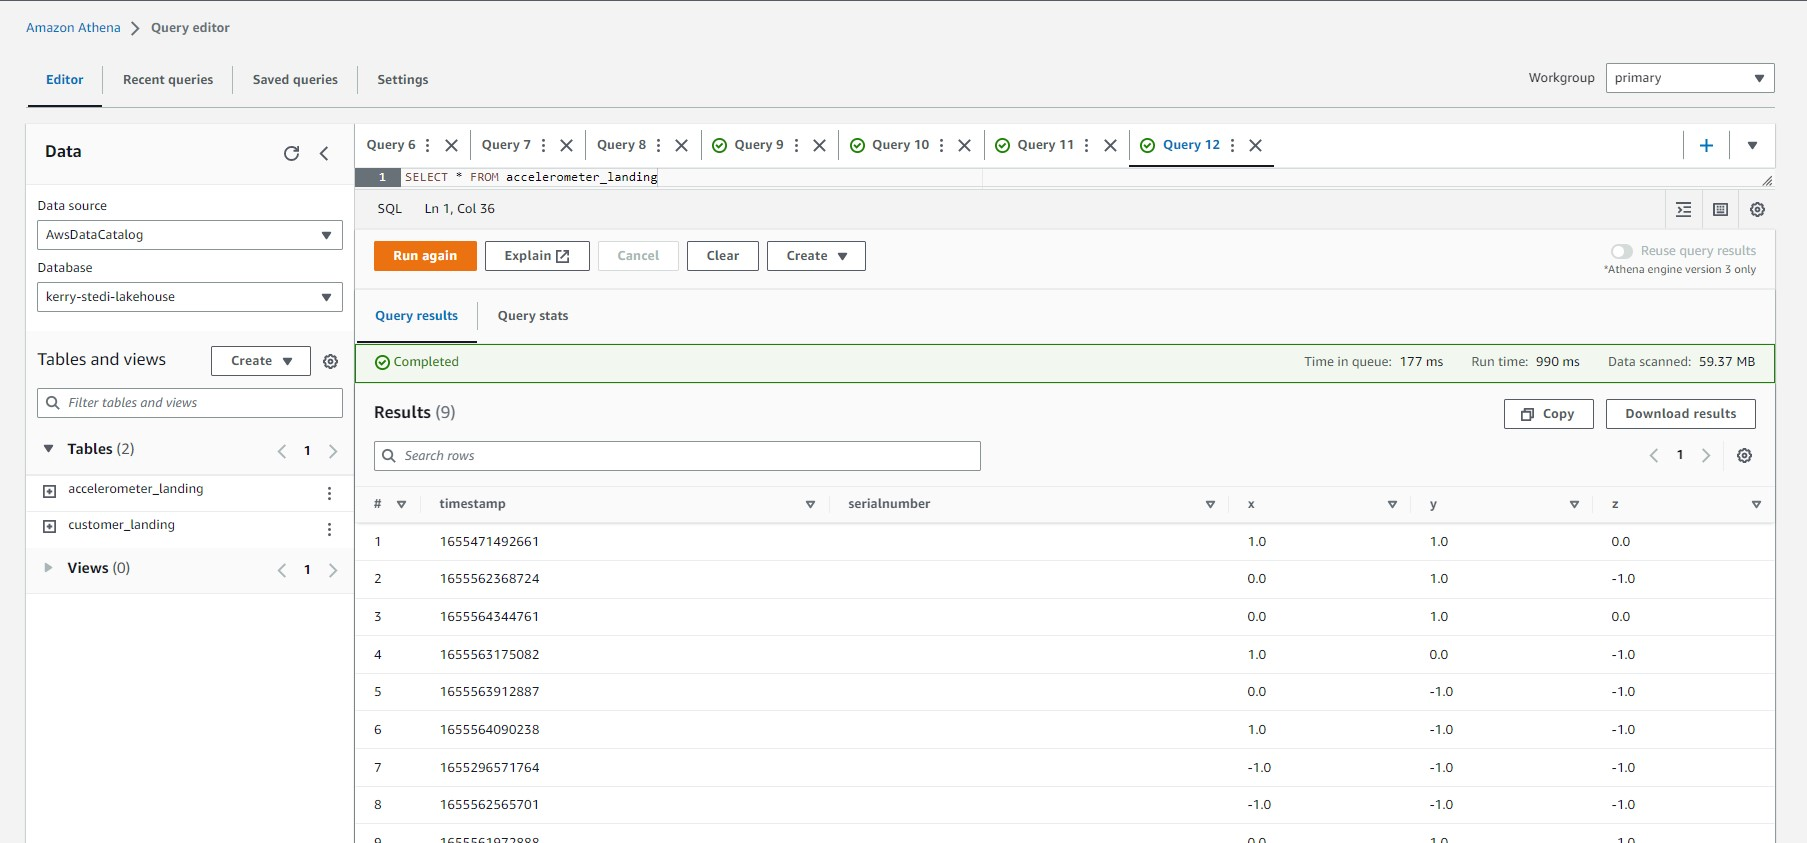
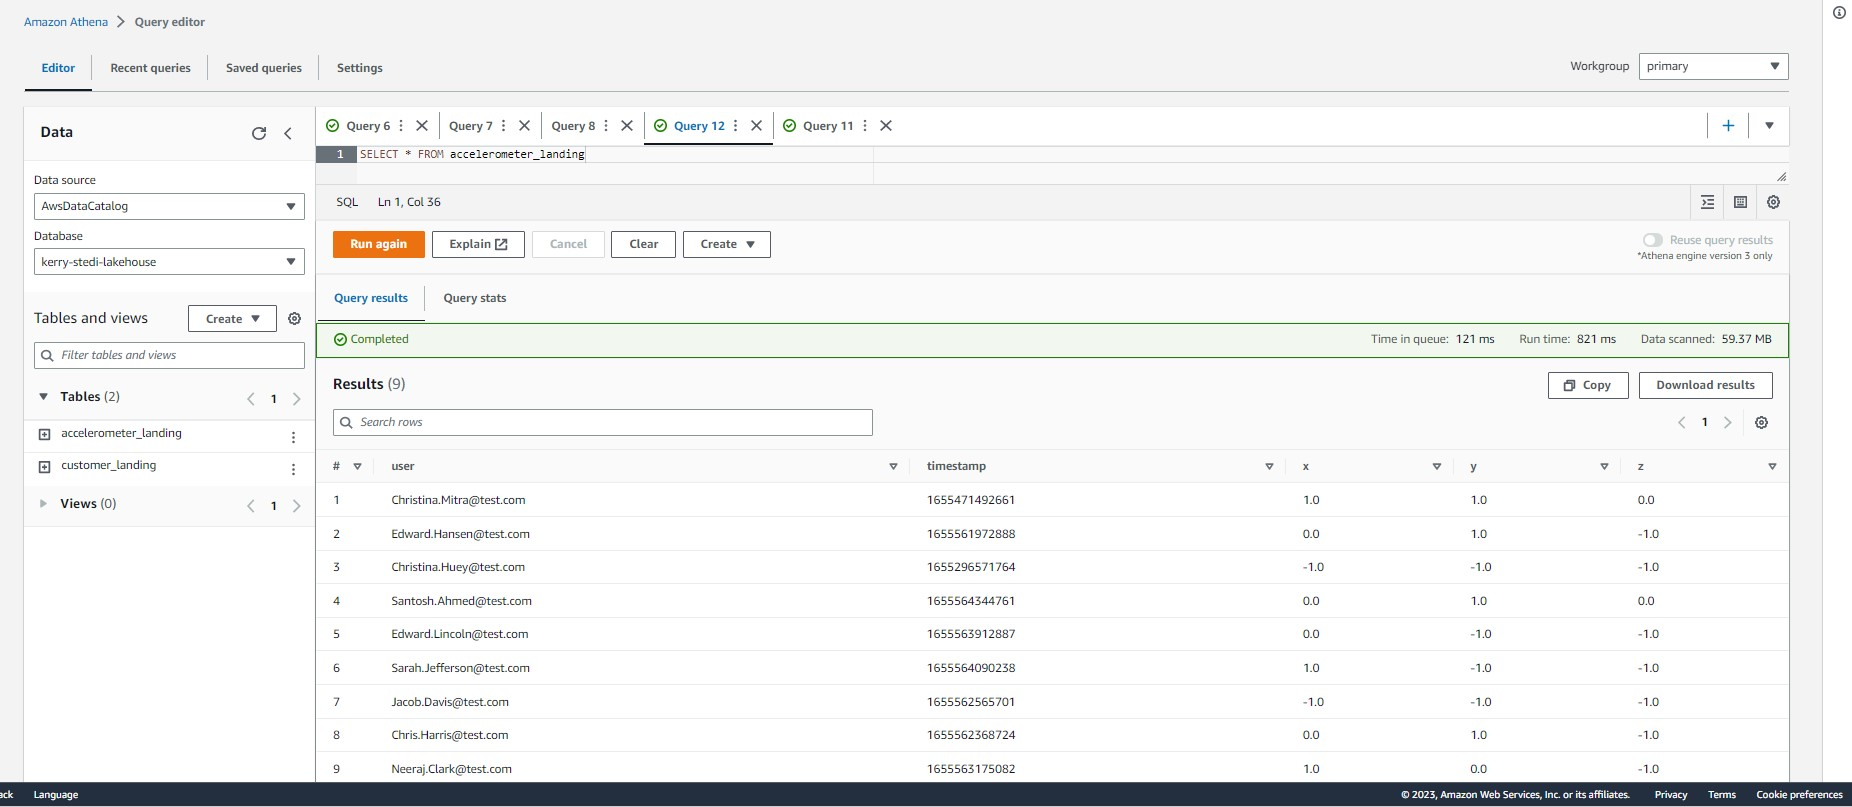
add trusted codes

diff --git a/stedi_accelerometer_landing_to_trusted.py b/stedi_accelerometer_landing_to_trusted.py
@@ -1,0 +1,87 @@
+import sys
+from awsglue.transforms import *
+from awsglue.utils import getResolvedOptions
+from pyspark.context import SparkContext
+from awsglue.context import GlueContext
+from awsglue.job import Job
+from awsglue.dynamicframe import DynamicFrame
+from pyspark.sql import functions as SqlFuncs
+
+args = getResolvedOptions(sys.argv, ["JOB_NAME"])
+sc = SparkContext()
+glueContext = GlueContext(sc)
+spark = glueContext.spark_session
+job = Job(glueContext)
+job.init(args["JOB_NAME"], args)
+
+# Script generated for node Accelerometer Landing
+AccelerometerLanding_node1 = glueContext.create_dynamic_frame.from_options(
+    format_options={"multiline": False},
+    connection_type="s3",
+    format="json",
+    connection_options={
+        "paths": ["s3://kerry-pj3-stedi-lakehouse/accelerometer/landing/"],
+        "recurse": True,
+    },
+    transformation_ctx="AccelerometerLanding_node1",
+)
+
+# Script generated for node Customer Trusted
+CustomerTrusted_node1677127231967 = glueContext.create_dynamic_frame.from_options(
+    format_options={"multiline": False},
+    connection_type="s3",
+    format="json",
+    connection_options={
+        "paths": ["s3://kerry-pj3-stedi-lakehouse/customer/trusted/"],
+        "recurse": True,
+    },
+    transformation_ctx="CustomerTrusted_node1677127231967",
+)
+
+# Script generated for node Drop Duplicates
+DropDuplicates_node1677128651243 = DynamicFrame.fromDF(
+    CustomerTrusted_node1677127231967.toDF().dropDuplicates(["email"]),
+    glueContext,
+    "DropDuplicates_node1677128651243",
+)
+
+# Script generated for node Privacy Filter
+PrivacyFilter_node2 = Join.apply(
+    frame1=AccelerometerLanding_node1,
+    frame2=DropDuplicates_node1677128651243,
+    keys1=["user"],
+    keys2=["email"],
+    transformation_ctx="PrivacyFilter_node2",
+)
+
+# Script generated for node Drop Fields
+DropFields_node1677127383456 = DropFields.apply(
+    frame=PrivacyFilter_node2,
+    paths=[
+        "serialNumber",
+        "shareWithPublicAsOfDate",
+        "birthDay",
+        "registrationDate",
+        "shareWithResearchAsOfDate",
+        "customerName",
+        "email",
+        "lastUpdateDate",
+        "phone",
+        "shareWithFriendsAsOfDate",
+    ],
+    transformation_ctx="DropFields_node1677127383456",
+)
+
+# Script generated for node Accelerometer Trusted
+AccelerometerTrusted_node3 = glueContext.write_dynamic_frame.from_options(
+    frame=DropFields_node1677127383456,
+    connection_type="s3",
+    format="json",
+    connection_options={
+        "path": "s3://kerry-pj3-stedi-lakehouse/accelerometer/trusted/",
+        "partitionKeys": [],
+    },
+    transformation_ctx="AccelerometerTrusted_node3",
+)
+
+job.commit()

diff --git a/stedi_customer_landing_to_trusted.py b/stedi_customer_landing_to_trusted.py
@@ -1,0 +1,47 @@
+import sys
+from awsglue.transforms import *
+from awsglue.utils import getResolvedOptions
+from pyspark.context import SparkContext
+from awsglue.context import GlueContext
+from awsglue.job import Job
+import re
+
+args = getResolvedOptions(sys.argv, ["JOB_NAME"])
+sc = SparkContext()
+glueContext = GlueContext(sc)
+spark = glueContext.spark_session
+job = Job(glueContext)
+job.init(args["JOB_NAME"], args)
+
+# Script generated for node S3 bucket
+S3bucket_node1 = glueContext.create_dynamic_frame.from_options(
+    format_options={"multiline": False},
+    connection_type="s3",
+    format="json",
+    connection_options={
+        "paths": ["s3://kerry-pj3-stedi-lakehouse/customer/landing/"],
+        "recurse": True,
+    },
+    transformation_ctx="S3bucket_node1",
+)
+
+# Script generated for node Privacy Filter
+PrivacyFilter_node2 = Filter.apply(
+    frame=S3bucket_node1,
+    f=lambda row: (not (row["shareWithResearchAsOfDate"] == 0)),
+    transformation_ctx="PrivacyFilter_node2",
+)
+
+# Script generated for node Customer Trusted
+CustomerTrusted_node3 = glueContext.write_dynamic_frame.from_options(
+    frame=PrivacyFilter_node2,
+    connection_type="s3",
+    format="json",
+    connection_options={
+        "path": "s3://kerry-pj3-stedi-lakehouse/customer/trusted/",
+        "partitionKeys": [],
+    },
+    transformation_ctx="CustomerTrusted_node3",
+)
+
+job.commit()
